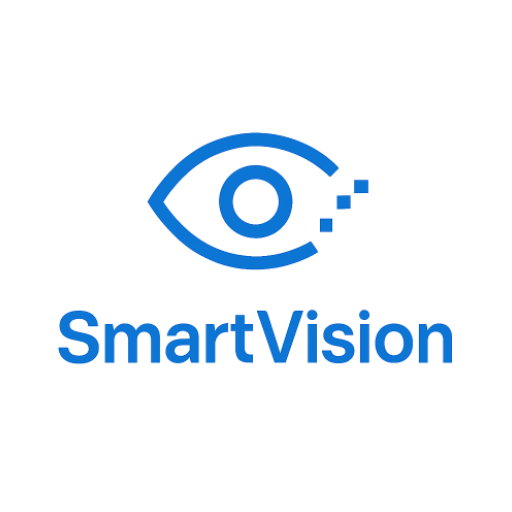
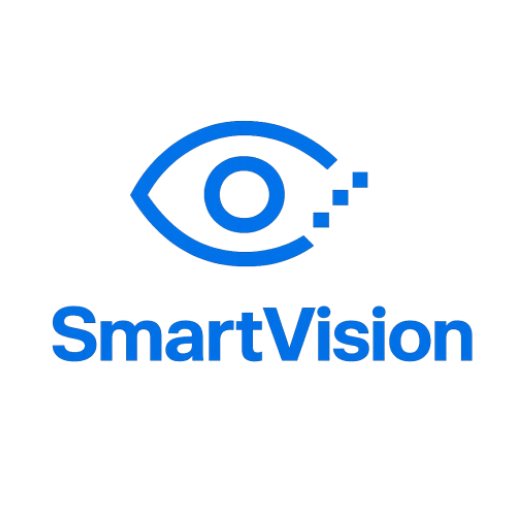
Logooo

Changed region(s): [[0.25, 0.2188, 0.7188, 0.5312], [0.0938, 0.5938, 0.9375, 0.7188]]

diff --git a/app/src/main/java/com/example/yangdnashabschlussprojekt/ui/component/welcome/WelcomeImage.kt b/app/src/main/java/com/example/yangdnashabschlussprojekt/ui/component/welcome/WelcomeImage.kt
@@ -3,11 +3,9 @@ package com.example.yangdnashabschlussprojekt.ui.component.welcome
 import androidx.compose.foundation.Image
 import androidx.compose.foundation.layout.fillMaxWidth
 import androidx.compose.foundation.layout.height
-import androidx.compose.foundation.layout.padding
-import androidx.compose.foundation.shape.CircleShape
 import androidx.compose.runtime.Composable
 import androidx.compose.ui.Modifier
-import androidx.compose.ui.draw.clip
+import androidx.compose.ui.layout.ContentScale
 import androidx.compose.ui.res.painterResource
 import androidx.compose.ui.unit.dp
 import com.example.yangdnashabschlussprojekt.R
@@ -15,16 +13,15 @@ import com.example.yangdnashabschlussprojekt.R
 @Composable
 fun WelcomeImage(
     modifier: Modifier = Modifier,
-    imageRes: Int = R.drawable.smartvision
+    imageRes: Int = R.drawable.smartvisionmain
 ) {
     Image(
         painter = painterResource(id = imageRes),
         contentDescription = "Willkommens Icon",
+        contentScale = ContentScale.Crop,
         modifier = modifier
-            .clip(CircleShape)
             .fillMaxWidth()
-            .height(160.dp)
-            .padding(16.dp)
+            .height(200.dp)
     )
 }
 
